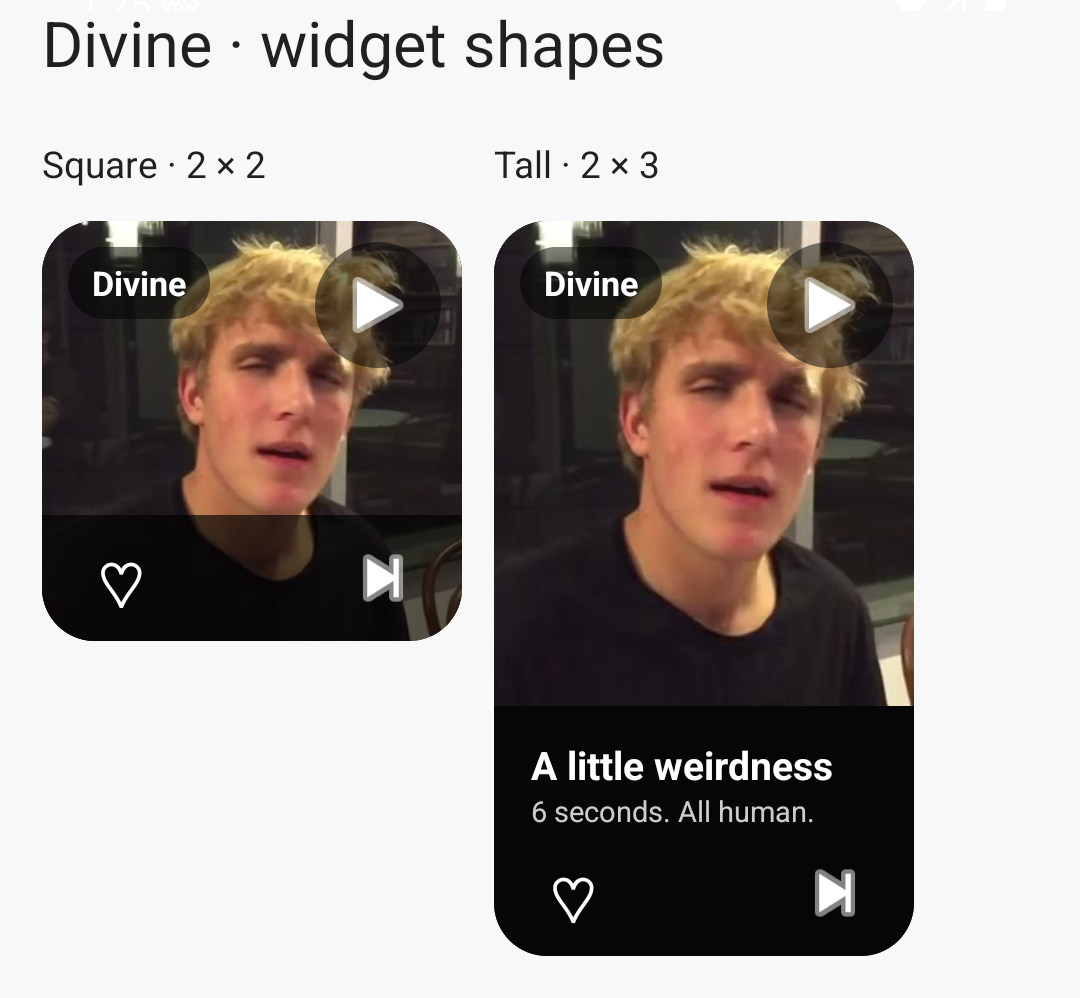
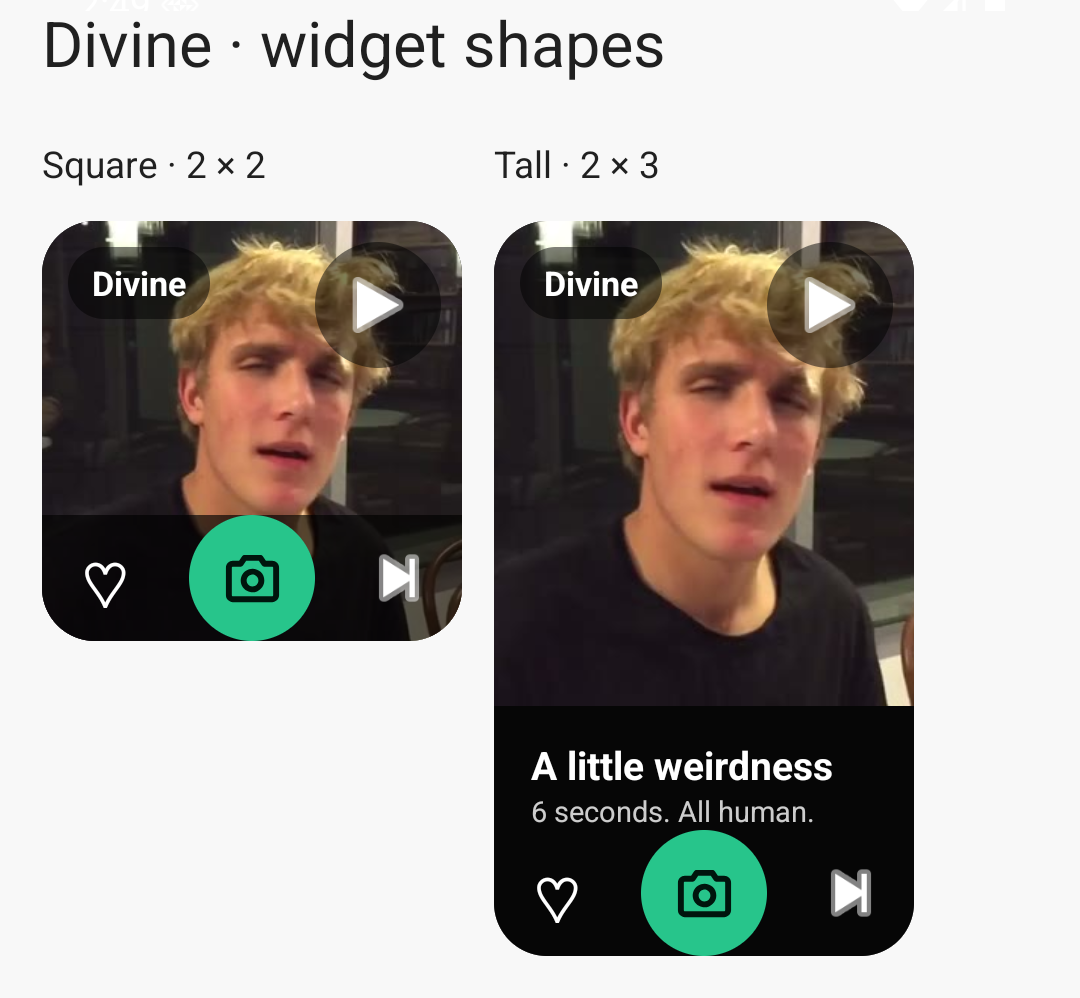
feat(widgets): open the Divine camera from highlight cards

diff --git a/tools/widget_lab/ios/Widget/HighlightWidget.swift b/tools/widget_lab/ios/Widget/HighlightWidget.swift
@@ -91,6 +91,15 @@ struct HighlightCard: View {
                             }
                             .accessibilityLabel(entry.state.isLiked ? "Liked" : "Like")
                             Spacer(minLength: 0)
+                            Link(destination: LabRoutes.camera) {
+                                Image(systemName: "camera.fill")
+                                    .font(.system(size: 20, weight: .semibold))
+                                    .foregroundStyle(.black)
+                                    .frame(width: 44, height: 44)
+                                    .background(LabStyle.green, in: Circle())
+                            }
+                            .accessibilityLabel("Open Divine camera")
+                            Spacer(minLength: 0)
                             Button(intent: NextHighlight()) {
                                 HStack(spacing: 6) {
                                     if !compact { Text("Next").font(.system(size: 14, weight: .semibold)) }

diff --git a/tools/widget_lab/ios/Host/WidgetLabApp.swift b/tools/widget_lab/ios/Host/WidgetLabApp.swift
@@ -28,7 +28,7 @@ struct LabDashboard: View {
                 }
                 Section("Create something") {
                     Text("Give an ordinary object a dramatic entrance.")
-                    Link("Open Divine camera", destination: URL(string: "divine://quick-action/camera")!)
+                    Link("Open Divine camera", destination: LabRoutes.camera)
                 }
                 Section("Local actions · no analytics uploaded") {
                     Text("Next taps: \(state.nextCount)")

diff --git a/tools/widget_lab/tests/StateTests.swift b/tools/widget_lab/tests/StateTests.swift
@@ -3,6 +3,7 @@ import Foundation
 @main
 struct StateTests {
     static func main() throws {
+        precondition(LabRoutes.camera.absoluteString == "divine://quick-action/camera")
         var state = LabState()
         state.next()
         precondition(state.index == 1 && state.nextCount == 1)

diff --git a/tools/widget_lab/ios/Shared/LabRoutes.swift b/tools/widget_lab/ios/Shared/LabRoutes.swift
@@ -1,0 +1,6 @@
+import Foundation
+
+enum LabRoutes {
+    // The same route used by Divine's shipping CameraQuickActionWidget.
+    static let camera = URL(string: "divine://quick-action/camera")!
+}

diff --git a/tools/widget_lab/tests/AndroidRenderingTests.java b/tools/widget_lab/tests/AndroidRenderingTests.java
@@ -49,11 +49,16 @@ public final class AndroidRenderingTests extends Instrumentation {
             try {
                 checkShapes(activity);
                 ComponentName divine = new ComponentName("co.openvine.app", "co.openvine.app.MainActivity");
-                Intent camera = LabActivity.cameraIntent(divine);
+                Intent camera = HighlightProvider.cameraIntent(activity, divine);
                 require(divine.equals(camera.getComponent()), "camera intent targets the installed Divine activity");
                 require("co.openvine.divine_quick_actions.ACTION_QUICK_ACTION".equals(camera.getAction()), "Android camera action contract");
                 require("camera".equals(camera.getStringExtra("co.openvine.divine_quick_actions.extra.ACTION_TYPE")), "camera action type");
                 require(camera.getBundleExtra("co.openvine.divine_quick_actions.extra.ACTION_PAYLOAD") != null, "camera payload bundle");
+                require((camera.getFlags() & Intent.FLAG_ACTIVITY_NEW_TASK) != 0, "widget camera launches a separate app task");
+                Intent missingCamera = HighlightProvider.cameraIntent(activity, null);
+                require("camera".equals(missingCamera.getAction())
+                    && new ComponentName(activity, LabActivity.class).equals(missingCamera.getComponent()),
+                    "missing Divine routes to the lab install message");
                 runOnMainSync(() -> {
                     dashboard[0] = ((android.view.ViewGroup) activity.findViewById(android.R.id.content)).getChildAt(0);
                     View watch = findText(activity.getWindow().getDecorView(), "Watch selected sample");
@@ -96,6 +101,19 @@ public final class AndroidRenderingTests extends Instrumentation {
                 await(() -> LabStore.load(activity).isLiked(), "Like broadcast persists");
                 checkSystemHost(activity, dashboard[0]);
                 await(() -> LabStore.load(activity).openCount == 1, "Open pending intent");
+                if (activity.getPackageManager().getLaunchIntentForPackage("co.openvine.app") == null) {
+                    runOnMainSync(() -> {
+                        View card = HighlightProvider.card(activity, LabStore.load(activity), false).apply(activity, new FrameLayout(activity));
+                        card.findViewById(R.id.camera).performClick();
+                    });
+                    await(() -> {
+                        final boolean[] shown = {false};
+                        runOnMainSync(() -> shown[0] = findText(activity.getWindow().getDecorView(),
+                            "Install Divine to open the camera.") != null);
+                        return shown[0];
+                    }, "widget camera reaches the missing-app message");
+                    require(LabStore.load(activity).openCount == 1, "camera action is not counted as watching a sample");
+                }
                 if (screenshots) captureShapes(activity);
                 result.putString("stream", "PASS: square/tall control bounds, 48 dp targets, mixed-height resize, Next, Like, Open, system widget host animation, two-second stop.\n");
             } finally {
@@ -110,18 +128,19 @@ public final class AndroidRenderingTests extends Instrumentation {
 
     private void checkShapes(LabActivity activity) {
         runOnMainSync(() -> {
-            for (boolean expanded : new boolean[] {false, true}) {
+            for (int widthDp : new int[] {144, 160}) {
+              for (boolean expanded : new boolean[] {false, true}) {
                 FrameLayout parent = new FrameLayout(activity);
                 View card = HighlightProvider.card(activity, new LabState(), false, expanded).apply(activity, parent);
                 parent.addView(card);
-                int width = dp(activity, 160);
-                int height = dp(activity, expanded ? 280 : 160);
+                int width = dp(activity, widthDp);
+                int height = dp(activity, expanded ? 280 : widthDp);
                 card.measure(View.MeasureSpec.makeMeasureSpec(width, View.MeasureSpec.EXACTLY),
                     View.MeasureSpec.makeMeasureSpec(height, View.MeasureSpec.EXACTLY));
                 card.layout(0, 0, width, height);
                 require(card.findViewById(R.id.context).getVisibility() == (expanded ? View.VISIBLE : View.GONE),
                     "only the tall card shows extra context");
-                for (int id : new int[] {R.id.like, R.id.next, R.id.open}) {
+                for (int id : new int[] {R.id.like, R.id.camera, R.id.next, R.id.open}) {
                     View control = card.findViewById(id);
                     require(control.getWidth() >= dp(activity, 48) && control.getHeight() >= dp(activity, 48),
                         "square and tall controls retain 48 dp touch targets");
@@ -132,6 +151,7 @@ public final class AndroidRenderingTests extends Instrumentation {
                         "all controls fit inside each card: expanded=" + expanded + ", id=" + id
                             + ", bounds=" + bounds + ", card=" + width + "x" + height);
                 }
+              }
             }
         });
     }

diff --git a/tools/widget_lab/android/src/video/divine/widgetlab/HighlightProvider.java b/tools/widget_lab/android/src/video/divine/widgetlab/HighlightProvider.java
@@ -67,12 +67,12 @@ public final class HighlightProvider extends AppWidgetProvider {
                 // The launcher chooses for its displayed size, including rotation.
                 // MIN_HEIGHT alone can describe the smaller landscape footprint.
                 Map<SizeF, RemoteViews> sizes = new LinkedHashMap<>();
-                sizes.put(new SizeF(140, 140), card(context, state, animate, false));
-                sizes.put(new SizeF(140, 240), card(context, state, animate, true));
+                sizes.put(new SizeF(144, 144), card(context, state, animate, false));
+                sizes.put(new SizeF(144, 240), card(context, state, animate, true));
                 views = new RemoteViews(sizes);
             } else {
                 Bundle options = manager.getAppWidgetOptions(id);
-                int minHeight = options.getInt(AppWidgetManager.OPTION_APPWIDGET_MIN_HEIGHT, 140);
+                int minHeight = options.getInt(AppWidgetManager.OPTION_APPWIDGET_MIN_HEIGHT, 144);
                 int maxHeight = options.getInt(AppWidgetManager.OPTION_APPWIDGET_MAX_HEIGHT, minHeight);
                 views = new RemoteViews(card(context, state, animate, minHeight >= 240),
                     card(context, state, animate, maxHeight >= 240));
@@ -106,6 +106,11 @@ public final class HighlightProvider extends AppWidgetProvider {
         }
         views.setOnClickPendingIntent(R.id.next, action(context, NEXT, 1));
         views.setOnClickPendingIntent(R.id.like, action(context, LIKE, 2));
+        Intent divine = context.getPackageManager().getLaunchIntentForPackage("co.openvine.app");
+        PendingIntent camera = PendingIntent.getActivity(context, 4,
+            cameraIntent(context, divine == null ? null : divine.getComponent()),
+            PendingIntent.FLAG_UPDATE_CURRENT | PendingIntent.FLAG_IMMUTABLE);
+        views.setOnClickPendingIntent(R.id.camera, camera);
         Intent open = new Intent(context, LabActivity.class).setAction("watch")
             .putExtra("clip", state.index).addFlags(Intent.FLAG_ACTIVITY_NEW_TASK | Intent.FLAG_ACTIVITY_CLEAR_TOP);
         PendingIntent watch = PendingIntent.getActivity(context, 3, open,
@@ -114,6 +119,12 @@ public final class HighlightProvider extends AppWidgetProvider {
         views.setOnClickPendingIntent(R.id.poster, watch);
         views.setOnClickPendingIntent(R.id.frames, watch);
         return views;
+    }
+
+    static Intent cameraIntent(Context context, ComponentName divine) {
+        if (divine != null) return LabActivity.cameraIntent(divine).addFlags(Intent.FLAG_ACTIVITY_NEW_TASK);
+        return new Intent(context, LabActivity.class).setAction("camera")
+            .addFlags(Intent.FLAG_ACTIVITY_NEW_TASK | Intent.FLAG_ACTIVITY_CLEAR_TOP);
     }
 
     private static PendingIntent action(Context context, String action, int request) {

diff --git a/tools/widget_lab/android/src/video/divine/widgetlab/LabActivity.java b/tools/widget_lab/android/src/video/divine/widgetlab/LabActivity.java
@@ -68,13 +68,7 @@ public final class LabActivity extends Activity {
             public void surfaceDestroyed(SurfaceHolder holder) { releasePlayer(); }
         });
         text("Create: give an ordinary object a dramatic entrance.", 18);
-        button("Open Divine camera", () -> {
-            Intent launch = getPackageManager().getLaunchIntentForPackage("co.openvine.app");
-            if (launch == null) { text("Install Divine to try the camera shortcut.", 16); return; }
-            Intent camera = cameraIntent(launch.getComponent());
-            try { startActivity(camera); }
-            catch (android.content.ActivityNotFoundException exception) { text("Install Divine to try the camera shortcut.", 16); }
-        });
+        button("Open Divine camera", this::openCamera);
         counters = text("", 16);
         text("Local demo only. Likes are not published. Rendering the widget is not counted as a view or an active user. No network requests or analytics uploads.", 16);
         button("Reset experiment", () -> {
@@ -108,6 +102,11 @@ public final class LabActivity extends Activity {
     }
 
     private void handleIntent(Intent intent) {
+        if ("camera".equals(intent.getAction())) {
+            intent.setAction(null);
+            openCamera();
+            return;
+        }
         if (!"watch".equals(intent.getAction())) return;
         int clip = intent.getIntExtra("clip", -1);
         if (clip < 0 || clip >= LabState.CLIP_COUNT) return;
@@ -117,6 +116,17 @@ public final class LabActivity extends Activity {
         watch(clip);
         intent.setAction(null);
         refreshCounters();
+    }
+
+    private void openCamera() {
+        Intent launch = getPackageManager().getLaunchIntentForPackage("co.openvine.app");
+        if (launch != null) {
+            try { startActivity(cameraIntent(launch.getComponent())); return; }
+            catch (android.content.ActivityNotFoundException exception) { /* App was removed after lookup. */ }
+        }
+        TextView notice = text("Install Divine to open the camera.", 16);
+        notice.post(() -> notice.requestRectangleOnScreen(
+            new android.graphics.Rect(0, 0, notice.getWidth(), notice.getHeight()), false));
     }
 
     private void watch(int clip) {

diff --git a/tools/widget_lab/test_state.py b/tools/widget_lab/test_state.py
@@ -11,7 +11,7 @@ def test():
     output = ROOT / ".build/tests"
     output.mkdir(parents=True, exist_ok=True)
     java = Path(os.environ.get("JAVA_HOME", "/Applications/Android Studio.app/Contents/jbr/Contents/Home")) / "bin"
-    subprocess.run(["swiftc", str(ROOT / "ios/Shared/LabState.swift"), str(ROOT / "tests/StateTests.swift"),
+    subprocess.run(["swiftc", str(ROOT / "ios/Shared/LabState.swift"), str(ROOT / "ios/Shared/LabRoutes.swift"), str(ROOT / "tests/StateTests.swift"),
                     "-o", str(output / "state-tests")], check=True)
     subprocess.run([str(output / "state-tests")], check=True)
     subprocess.run([str(java / "javac"), "-d", str(output), str(ROOT / "android/src/video/divine/widgetlab/LabState.java"),

diff --git a/tools/widget_lab/README.md b/tools/widget_lab/README.md
@@ -10,6 +10,7 @@ The question: can a highlighted video show a two-second moving preview inside a 
 - Tap **Next** in the widget to select another sample and attempt a two-second preview. Both prototypes use 16 frames sampled at 8 fps. There is no GIF player or embedded video player in the widget.
 - **Like** toggles local state for that sample. It does not publish a Nostr reaction.
 - **Open** opens that sample in the standalone host app's native player.
+- The green **camera** button opens Divine's camera directly from either card size, using the app's existing iOS URL or Android quick-action intent. Install Divine separately first. Android shows an install message when it is missing; camera taps do not increment the local sample-watch counter.
 - The host app has a motion/still switch, local action counts, a reset button, and a creative prompt with the existing Divine camera shortcut. Install Divine separately to use that shortcut (the stable `co.openvine.app` package on Android). iOS uses a URL; Android uses Divine's native quick-action intent.
 
 The three samples and the selection are shared across instances of the widget on each platform. The widgets change on explicit actions; automatic background highlight selection is outside this experiment. Changing sample in the host app also requests a widget refresh, but refresh timing belongs to the OS.
@@ -125,9 +126,10 @@ Pass `-e screenshots true` to the instrumentation command to save `files/widget-
 ## Square and tall revision (2026-10-24)
 
 - iOS 26.1 simulator: the small square widget is added through the system gallery; Reset → Next → Like → Open passes on the home screen with the expected local counters. Both small and large gallery layouts were captured and visually inspected.
-- Android API 36 emulator: native rendering and system-host tests pass, including 160 × 160 dp and 160 × 280 dp control bounds, 48 dp touch targets, context appearing and disappearing when the host resizes, and the existing action and frame-sequence checks. The optional native preview capture shows both shapes; it is not evidence of a physical launcher's presentation.
+- Android API 36 emulator: native rendering and system-host tests pass, including 144/160 dp-wide compact/tall control bounds, 48 dp touch targets, context appearing and disappearing when the host resizes, camera-intent construction and missing-app routing, and the existing action and frame-sequence checks. The optional native preview capture shows both shapes; it is not evidence of a physical launcher's presentation.
 - Both native builds, APK signature verification, Swift/Java state tests, the media regression test, and Flutter CI-scope analysis pass. Generated preview frames are 320 × 320.
 - Motion quality and physical-device behavior remain experimental; the shape revision does not establish either.
+- Camera shortcuts reuse the shipping app's route contracts, but the installed Divine camera screen was not exercised end to end. The iOS route is checked in the native state/route tests; Android verifies the launch intent and taps the widget control through to the missing-app message on a fixture without Divine installed.
 
 ## Measurement boundaries
 

diff --git a/tools/widget_lab/screenshots/README.md b/tools/widget_lab/screenshots/README.md
@@ -4,3 +4,5 @@
 - `android-shapes.png`: composed native RemoteViews in the Android API 36 test activity, showing 160 × 160 dp and 160 × 280 dp layouts. This is a native preview, not a physical launcher screenshot. The separate system-host test verifies actions, resizing, frame advancement, and stopping.
 
 Both use the repository's already-published seed content. Still captures establish appearance, not useful animated playback or production integration. Generated video assets remain ignored.
+
+Refreshed with the green camera shortcut in the center of each card's control row. Android's minimum width is 144 dp to accommodate three 48 dp controls.
